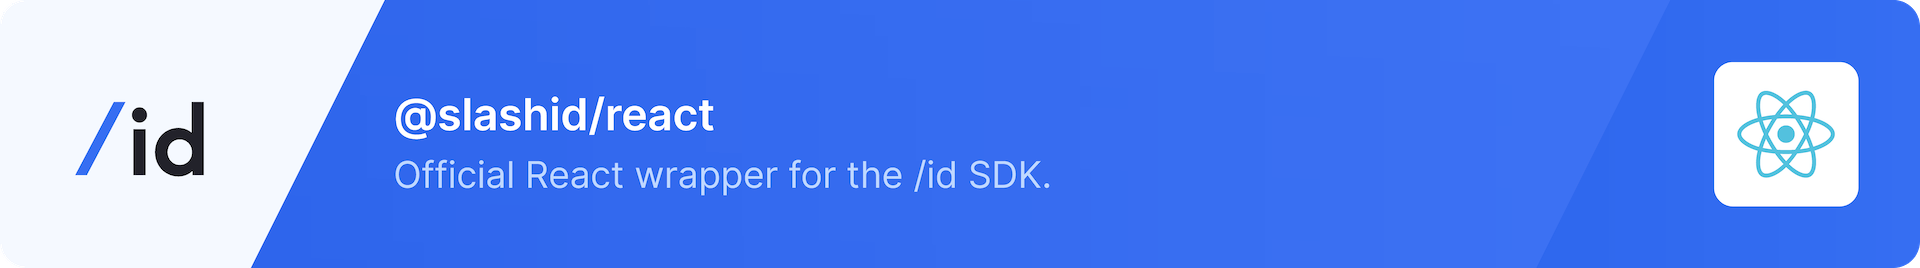
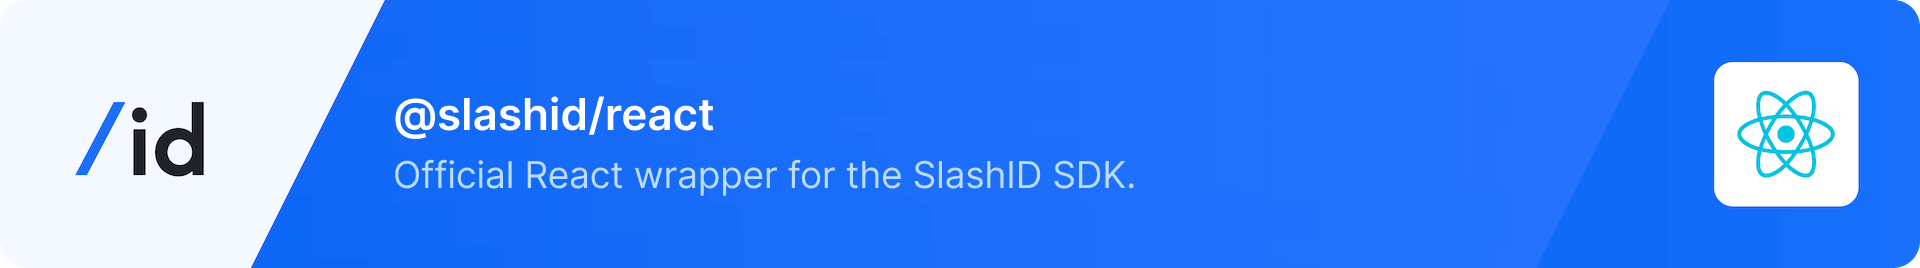
/id -> SlashID

diff --git a/packages/remix/README.md b/packages/remix/README.md
@@ -1,4 +1,4 @@
-![SlashID Remix SDK](https://raw.githubusercontent.com/slashid/javascript/main/packages/remix/banner.png)
+![SlashID Remix SDK](https://raw.githubusercontent.com/slashid/javascript/main/packages/remix/slashid_remix_banner.png)
 
 ![npm](https://img.shields.io/npm/v/@slashid/remix)
 ![build](https://github.com/slashid/javascript/actions/workflows/ci.yml/badge.svg)

diff --git a/.changeset/beige-toys-appear.md b/.changeset/beige-toys-appear.md
@@ -1,0 +1,6 @@
+---
+"@slashid/react": patch
+"@slashid/remix": patch
+---
+
+Update README.md with standard brand banner
